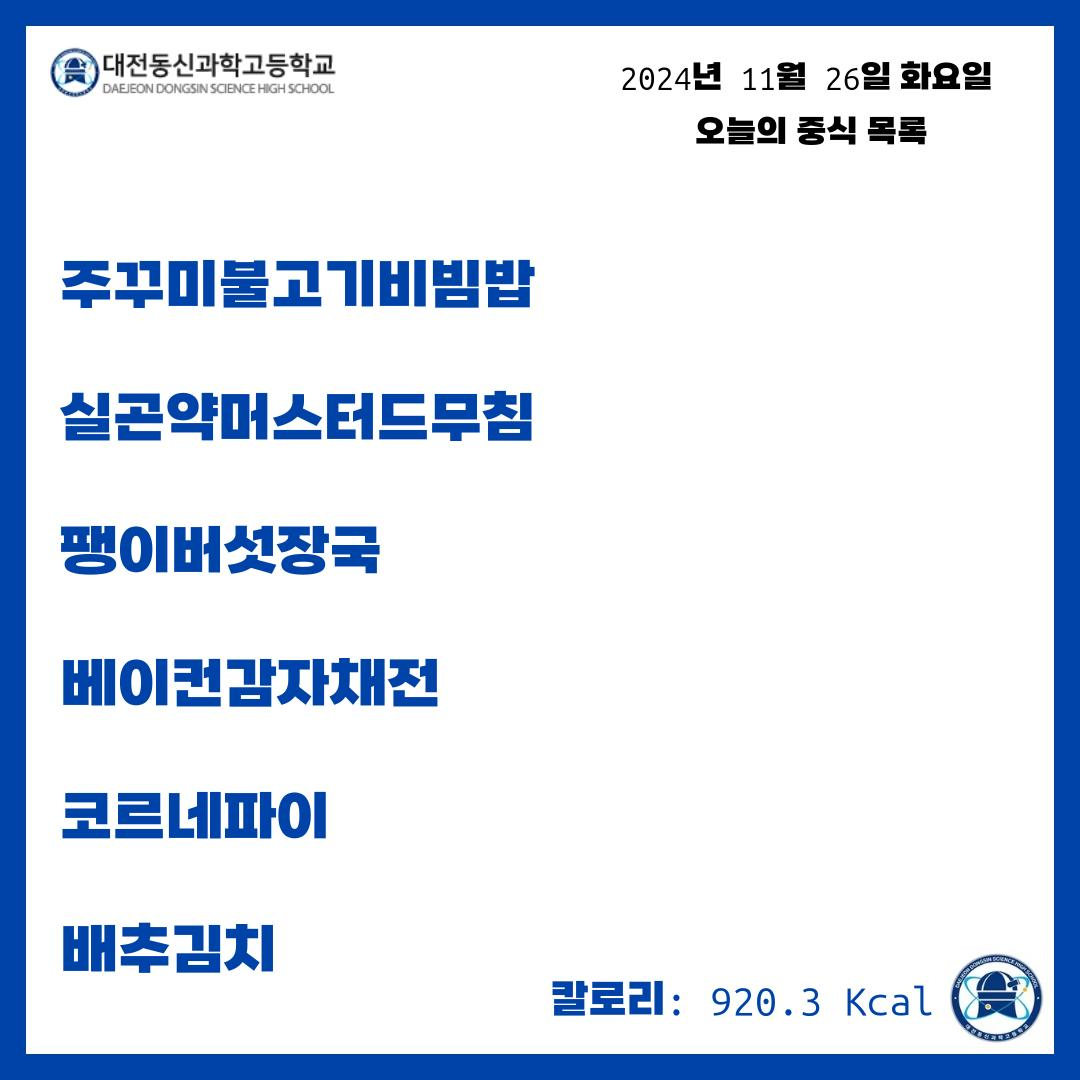
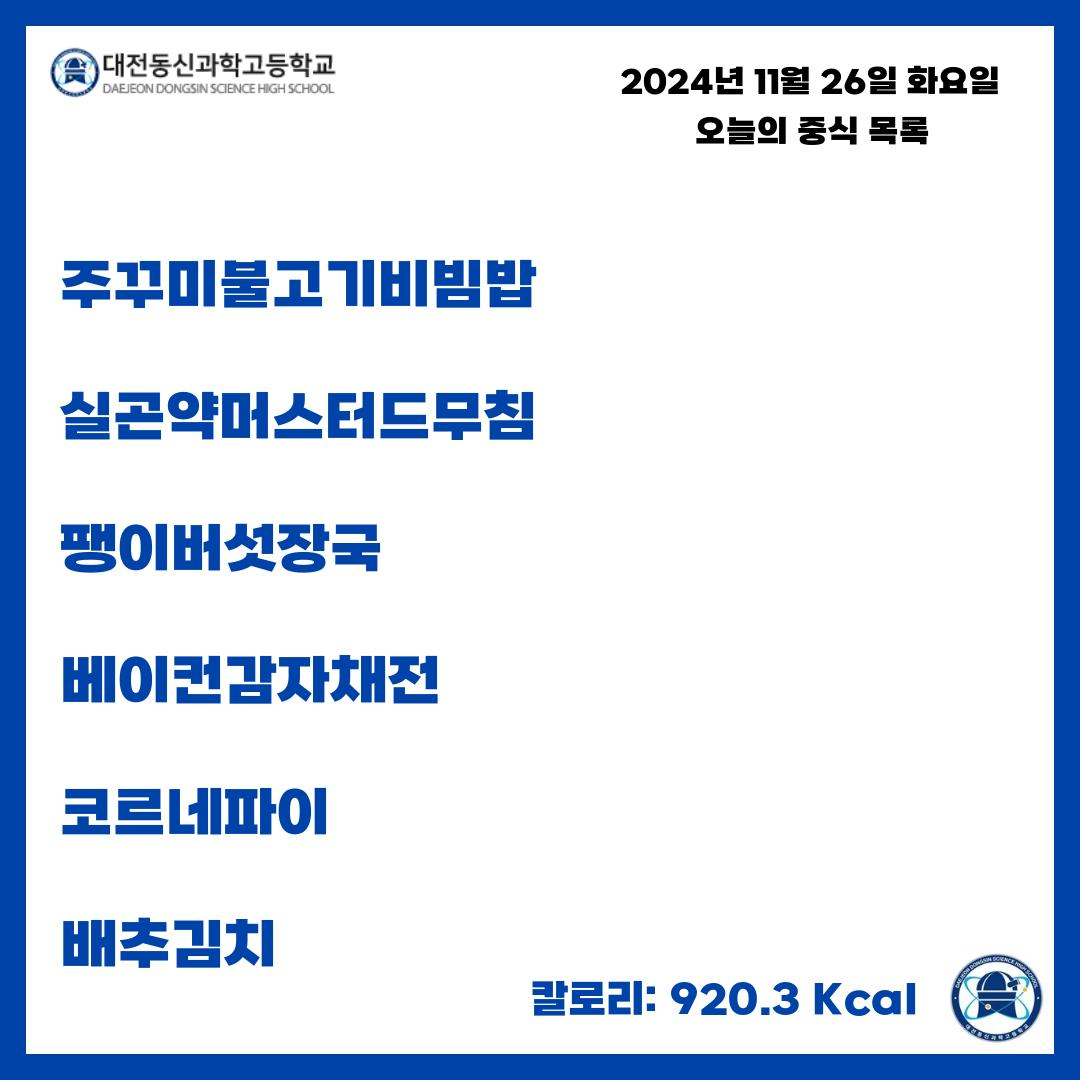
Canvas version downgrade

diff --git a/function/Insta/drawmenu.js b/function/Insta/drawmenu.js
@@ -57,7 +57,7 @@ async function drawTextOnImage(time, today) {
         ctx.fillText(`${text2}`, 520, menuline + index * 400);
     
         ctx.font = '40px "AggroBold"';
-        ctx.fillText(`칼로리: ${meal.CAL_INFO}`, 550, 1010 + index * 1010);
+        ctx.fillText(`칼로리: ${meal.CAL_INFO}`, 530, 1010 + index * 1010);
     
         let when;
         if (time === 1) when = "오늘의 조식 목록";

diff --git a/index.js b/index.js
@@ -1,5 +1,5 @@
 const { getMeal } = require('./function/Insta/loadmenu');
-const { drawmenu } = require('./function/Insta/writemenu');
+const { drawmenu } = require('./function/Insta/drawmenu');
 
 //getMeal(0);
 
